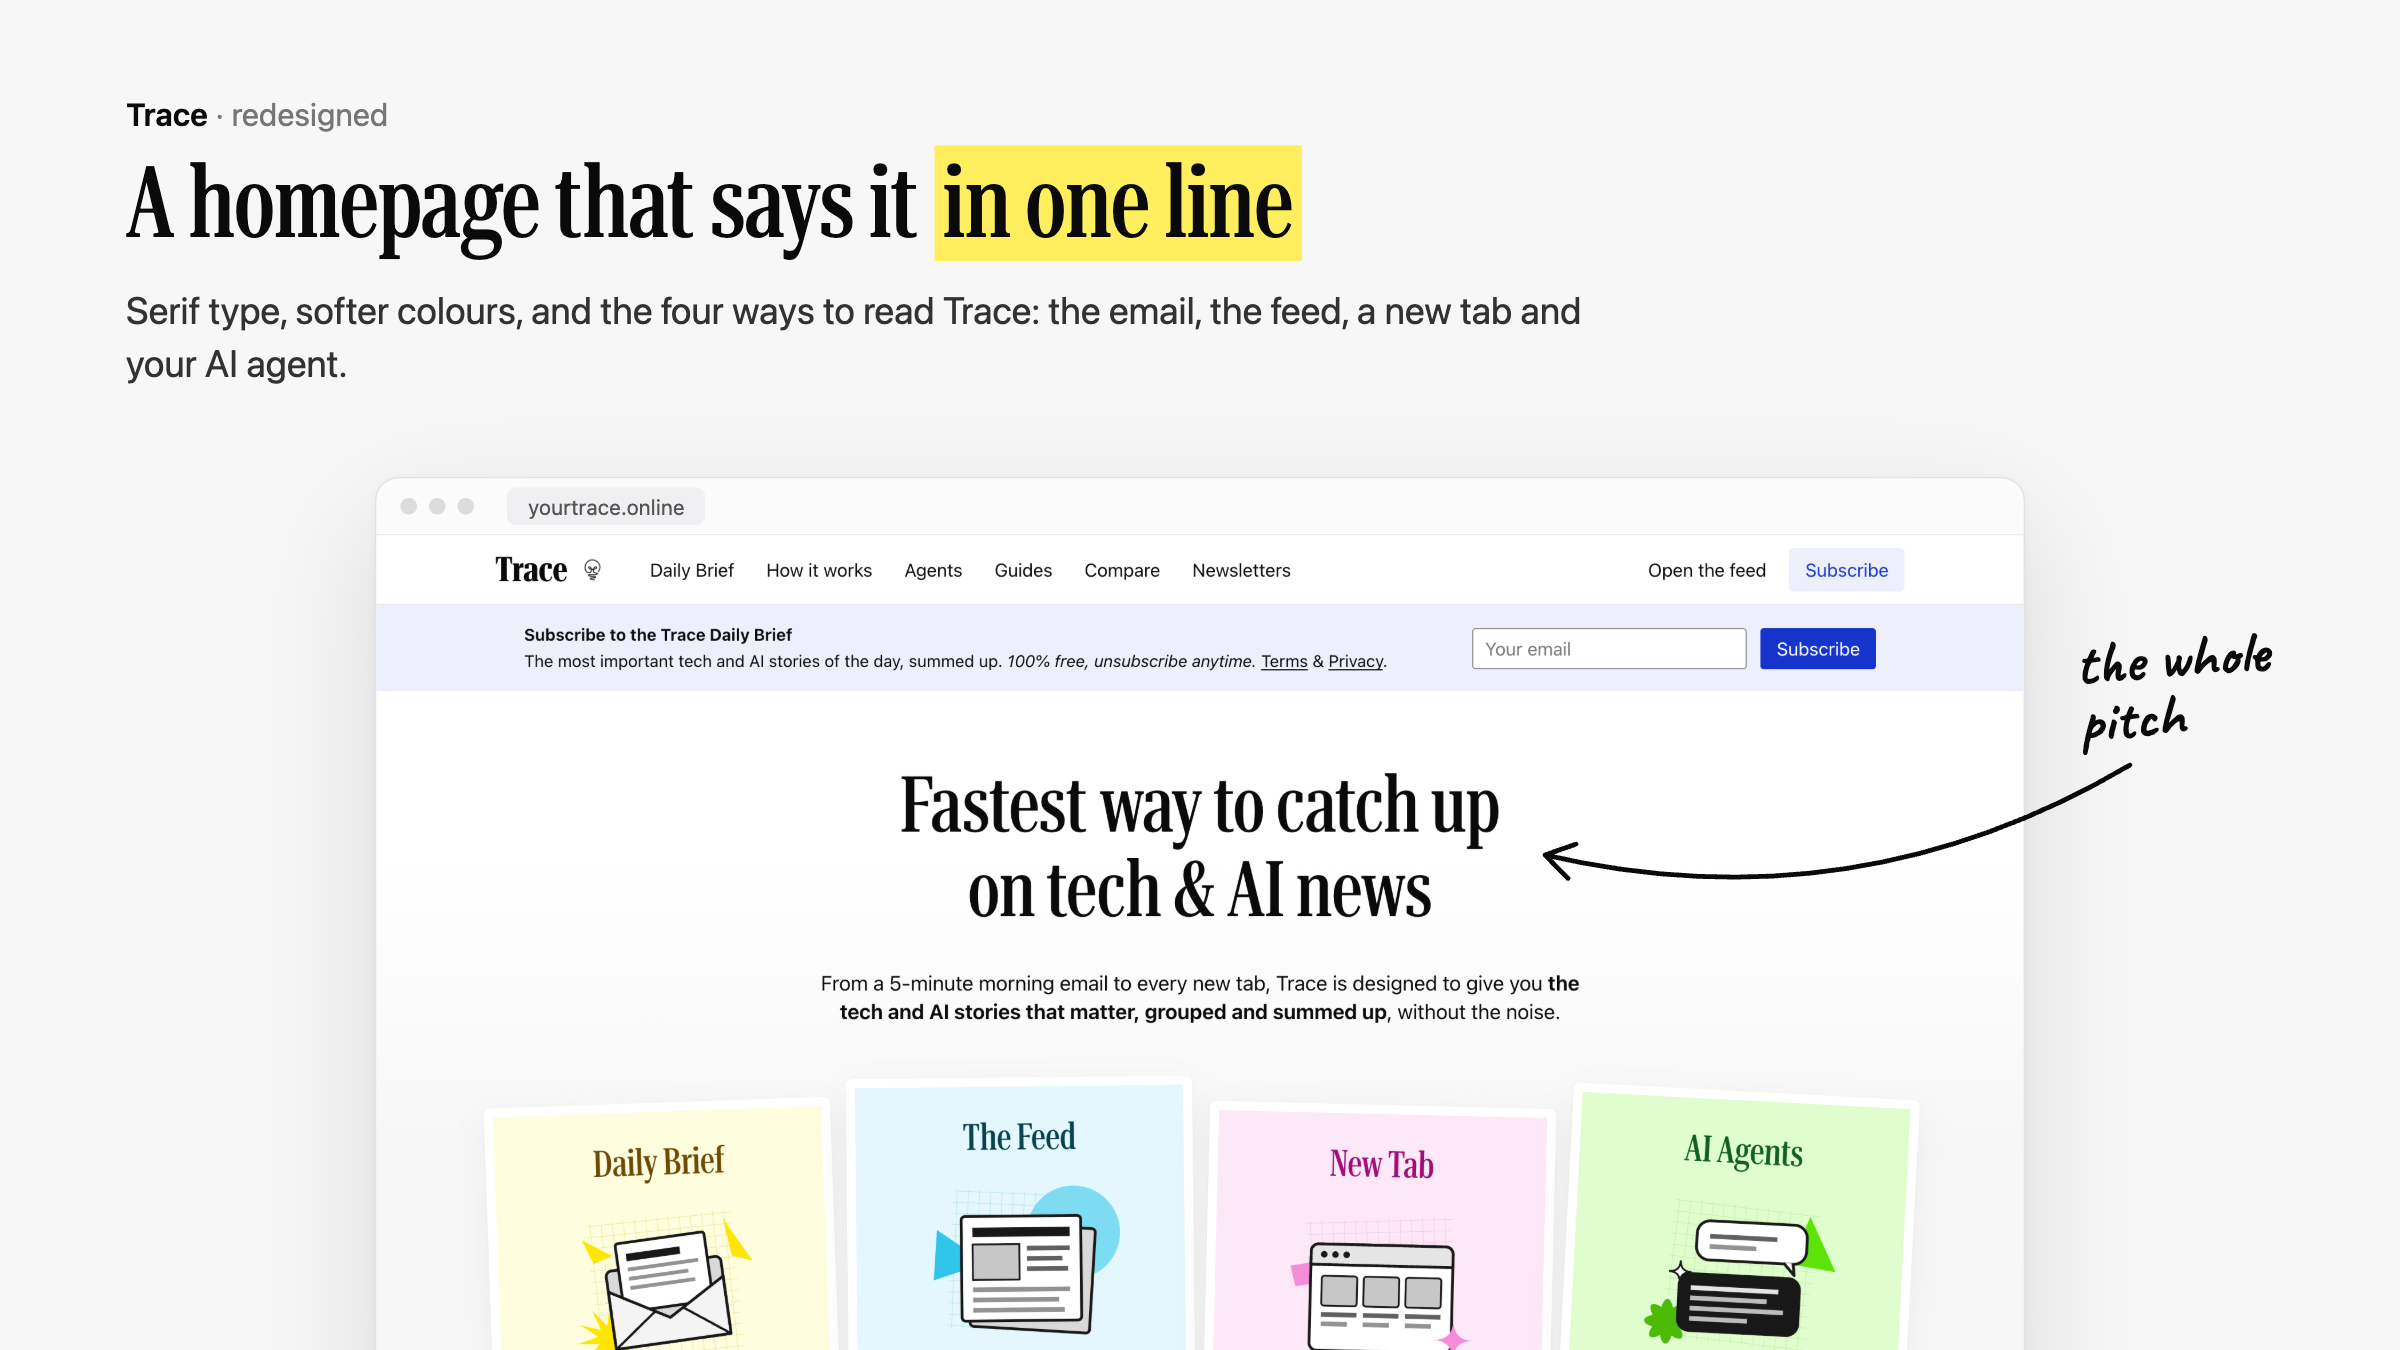
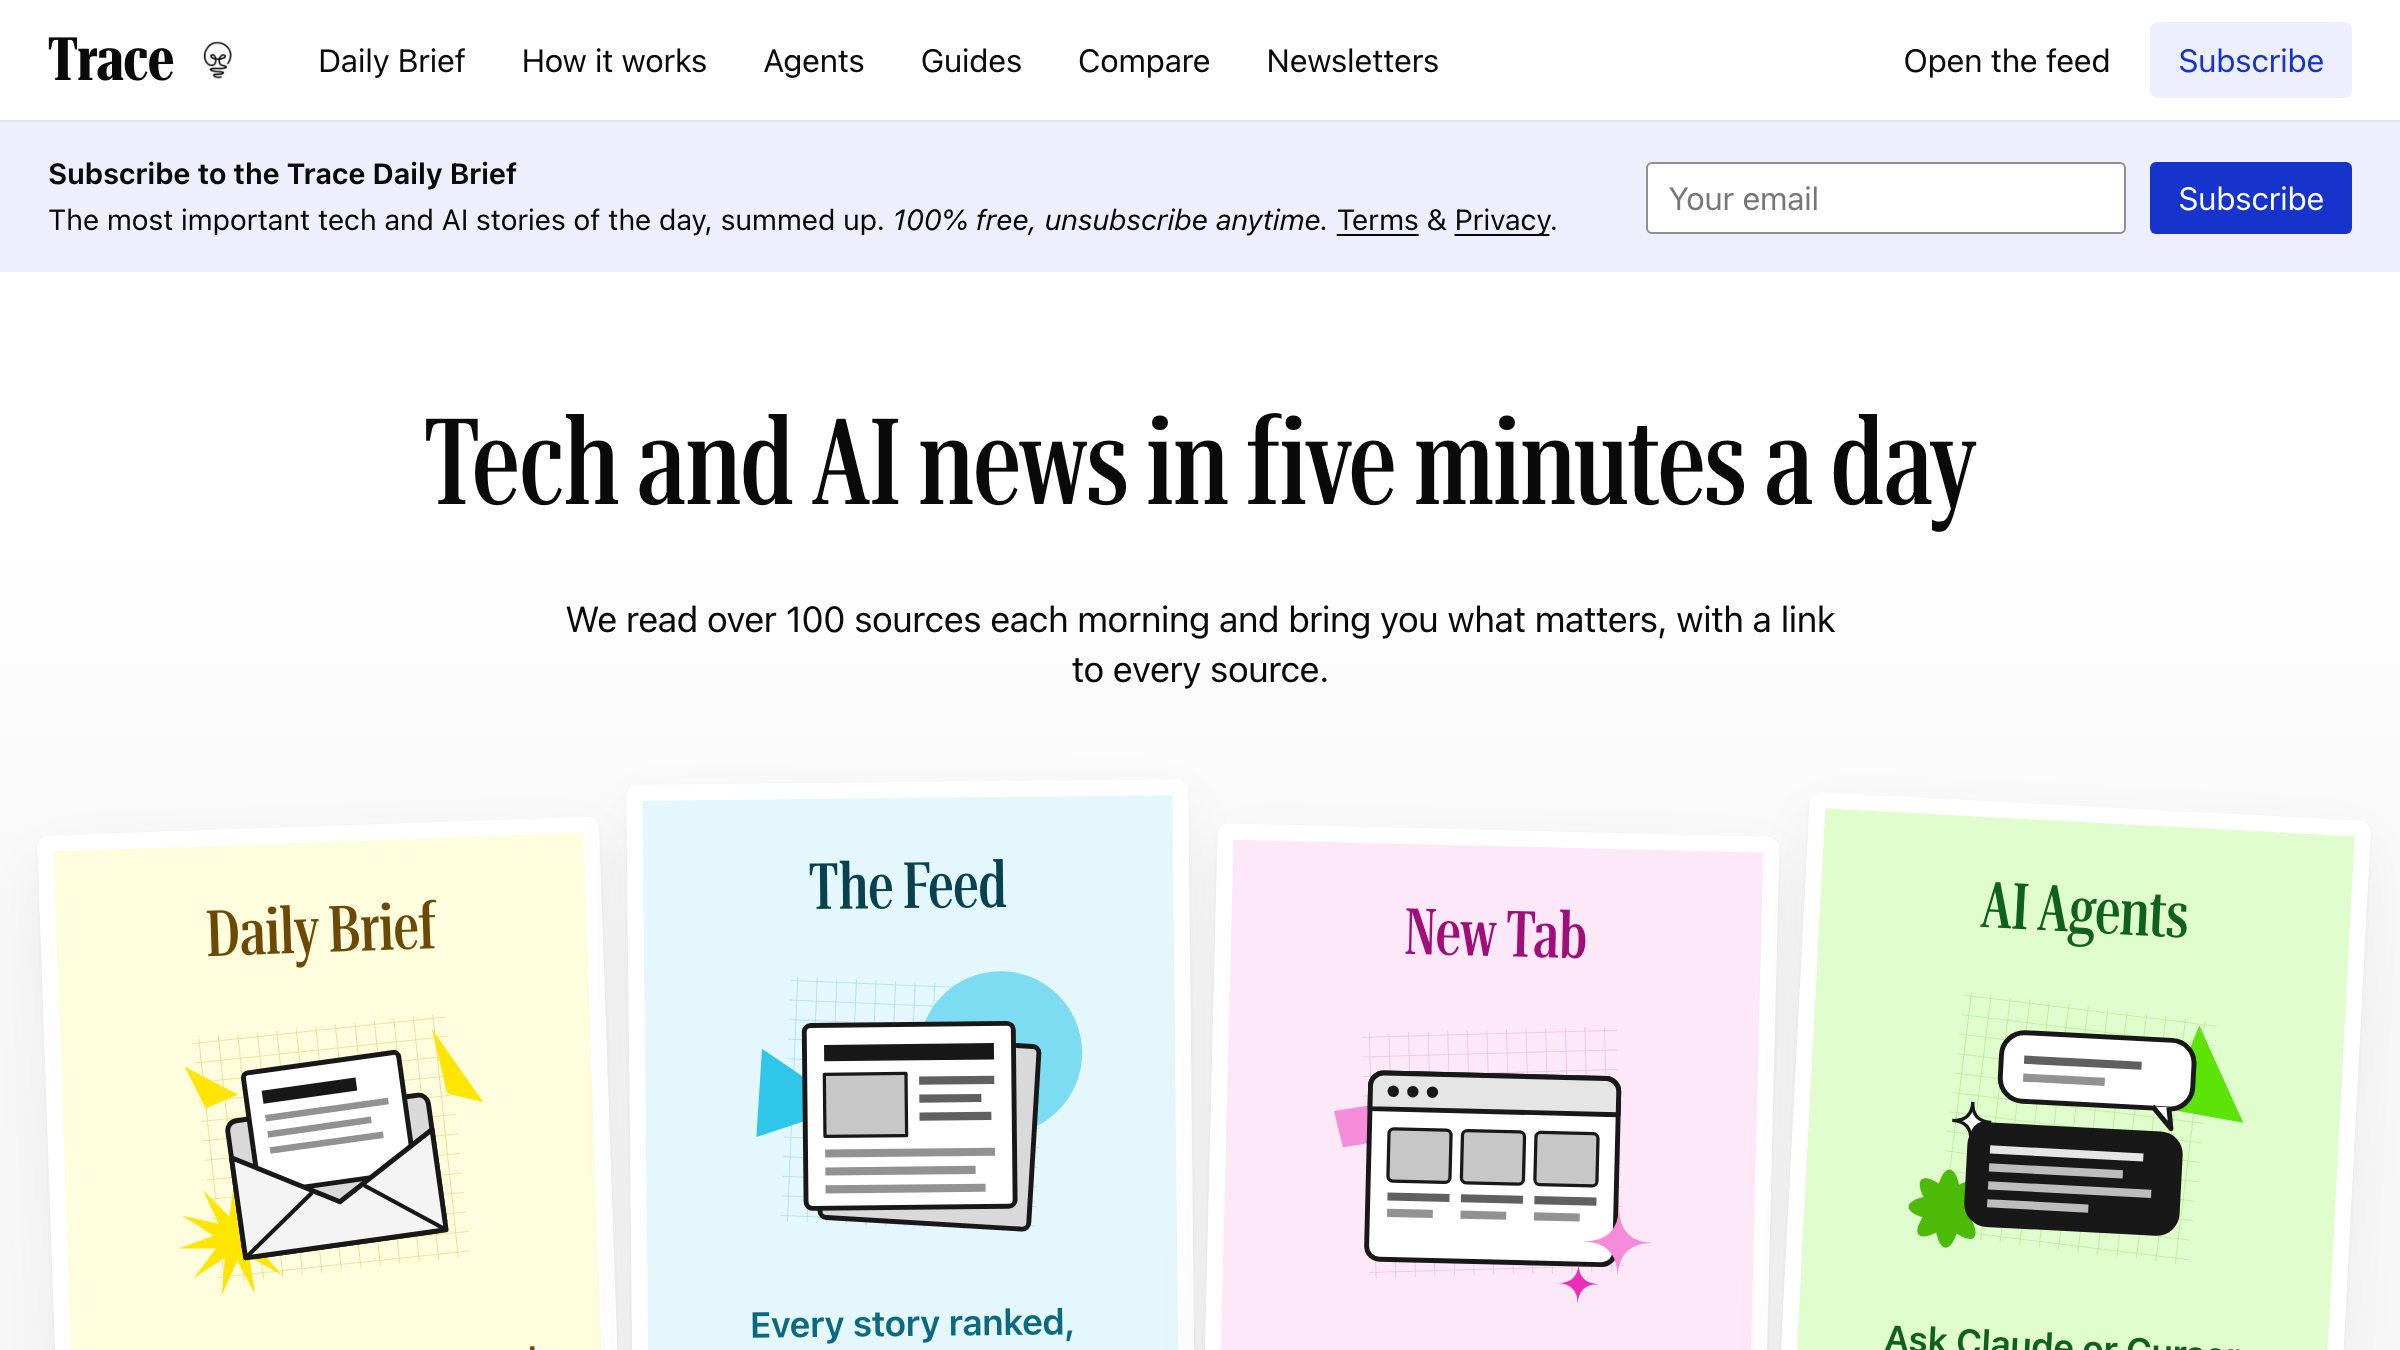
README: current homepage screenshot

diff --git a/README.md b/README.md
@@ -11,7 +11,7 @@ yourself, on your phone, in every new Chrome tab, or through your AI assistant.
 **Live:** [yourtrace.online](https://www.yourtrace.online) · **Daily archive:** [yourtrace.online/brief](https://www.yourtrace.online/brief) · **Build your brief:** [yourtrace.online/brief/customize](https://www.yourtrace.online/brief/customize)
 
 <p align="center">
-  <img src="docs/screenshot-homepage.png" alt="The homepage: the fastest way to catch up on tech and AI news" width="49%" />
+  <img src="docs/screenshot-homepage.png" alt="The homepage: tech and AI news in five minutes a day" width="49%" />
   <img src="docs/screenshot-brief.png" alt="A daily brief on the web, with a contents list to jump between stories" width="49%" />
 </p>
 <p align="center">
